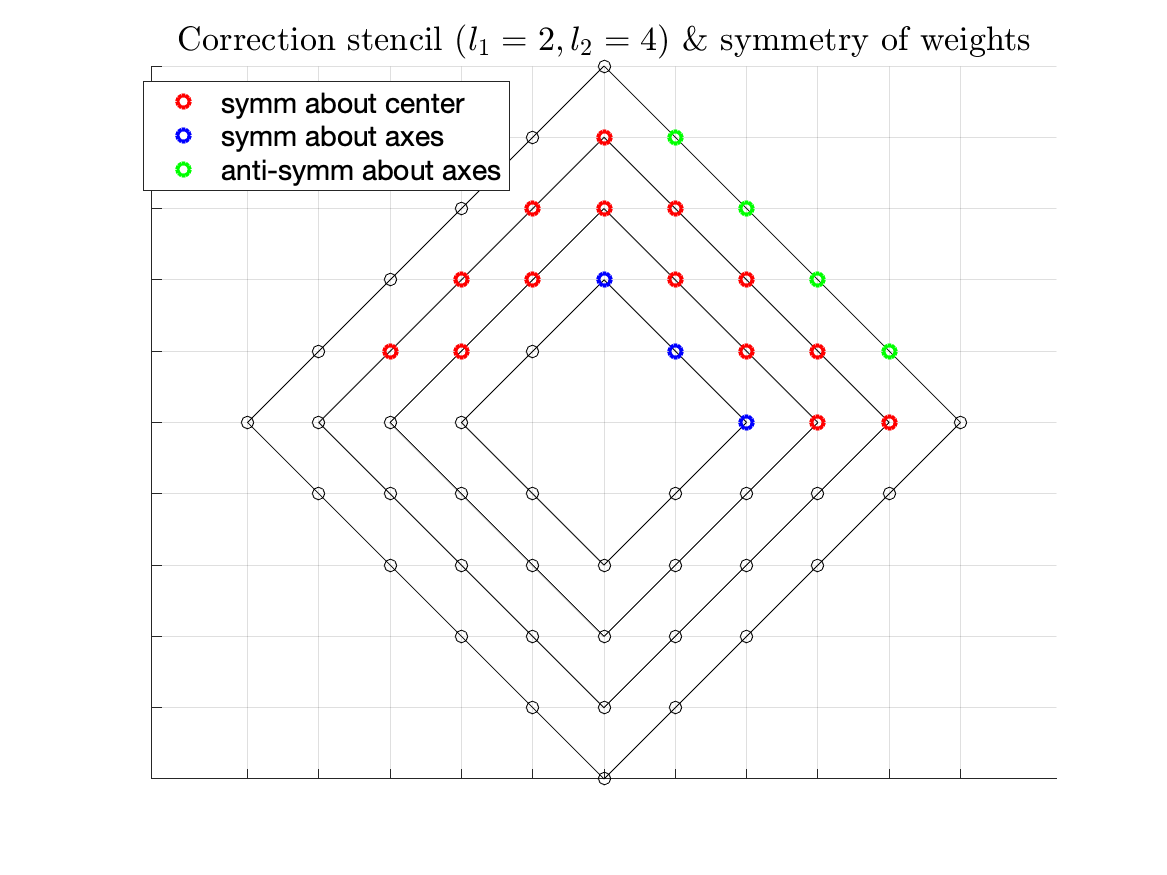
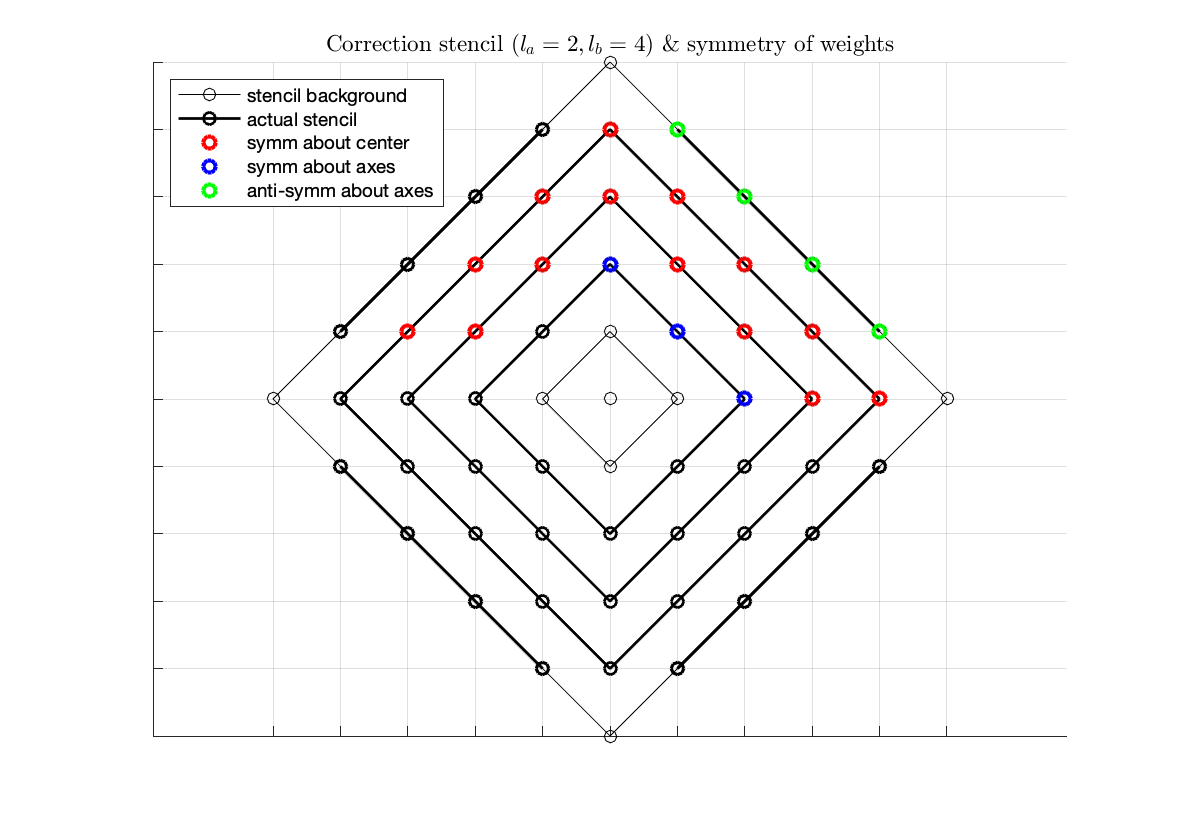
update README

diff --git a/test_helmholtz3d_on_quartic_patch_NEW.m b/test_helmholtz3d_on_quartic_patch_NEW.m
@@ -252,7 +252,7 @@ if l1>1, u=[u,-l1+1:-1]; v=[v,1:l1-1]; taus=[taus,tau(2:l1)]; end % off-axis cop
 if l1>0, u=[u,-u]; v=[v,-v]; taus = kron([1,1],taus); end % central symmetry copies
 inds = sub2ind(siz,sub1+u,sub2+v);      % kernel indices
 ker(inds) = ker(inds)+taus.*fac(inds); 
-% 2. intermediate layers (symmetric aboutt center)
+% 2. intermediate layers (symmetric about center)
 if l2 > l1
     u=[]; v=[]; % assemble stencil layers l, l1<l<=l2
     for l=l1+1:l2, u=[u,(l:-1:-l+1)]; v=[v,0:l-1,l:-1:1]; end
@@ -283,7 +283,7 @@ u=l1:-1:0; v=0:l1;
 A(:,1:l1+1)=u.^a.*v.^b;
 if l1>0, A(:,1:l1+1)=2*A(:,1:l1+1); end % on-axis pts
 if l1>1, A(:,2:l1)=A(:,2:l1)+2*(-u(2:l1)).^a.*v(2:l1).^b; end % off-axis pts
-% 2. intermediate layers (symmetric aboutt center)
+% 2. intermediate layers (symmetric about center)
 if l2 > l1
     u=[]; v=[]; % assemble stencil layers l, l1<l<=l2
     for l=l1+1:l2, u=[u,l:-1:-l+1]; v=[v,0:l-1,l:-1:1]; end 

diff --git a/test_laplace3d_on_quartic_patch_NEW.m b/test_laplace3d_on_quartic_patch_NEW.m
@@ -164,7 +164,7 @@ if l1>1, u=[u,-l1+1:-1]; v=[v,1:l1-1]; taus=[taus,tau(2:l1)]; end % off-axis cop
 if l1>0, u=[u,-u]; v=[v,-v]; taus = kron([1,1],taus); end % central symmetry copies
 inds = sub2ind(siz,sub1+u,sub2+v);      % kernel indices
 ker(inds) = ker(inds)+taus.*fac(inds); 
-% 2. intermediate layers (symmetric aboutt center)
+% 2. intermediate layers (symmetric about center)
 if l2 > l1
     u=[]; v=[]; % assemble stencil layers l, l1<l<=l2
     for l=l1+1:l2, u=[u,(l:-1:-l+1)]; v=[v,0:l-1,l:-1:1]; end
@@ -195,7 +195,7 @@ u=l1:-1:0; v=0:l1;
 A(:,1:l1+1)=u.^a.*v.^b;
 if l1>0, A(:,1:l1+1)=2*A(:,1:l1+1); end % on-axis pts
 if l1>1, A(:,2:l1)=A(:,2:l1)+2*(-u(2:l1)).^a.*v(2:l1).^b; end % off-axis pts
-% 2. intermediate layers (symmetric aboutt center)
+% 2. intermediate layers (symmetric about center)
 if l2 > l1
     u=[]; v=[]; % assemble stencil layers l, l1<l<=l2
     for l=l1+1:l2, u=[u,l:-1:-l+1]; v=[v,0:l-1,l:-1:1]; end 

diff --git a/README.md b/README.md
@@ -40,7 +40,7 @@ Supporting functions:
 
 ### Experimental code
 
-The routine `test_laplace3d_on_quartic_patch_NEW.m`  demonstrates a new (unpublished) ZetaTrap3D quadrature that *only requires the first fundamental form of the geometry* (unlike the original version above that needs higher geometric derivatives.)
+The routines `test_laplace3d_on_quartic_patch_NEW.m`  and `test_helmholtz3d_on_quartic_patch_NEW.m` demonstrate a new (unpublished) ZetaTrap3D quadrature that *only requires the first fundamental form of the geometry* (unlike the original version above that needs higher geometric derivatives.)
 
-This new code performs quadrature correction on a series of diamond stencils $|i|+|j|=l$ where the correction weights have  symmetries shown in the following picture; such a stencil can correct a class of singular integrands of the form "(singular) * (monomial)" for monomials of even power $p$, $2l_1\leq p\leq 2l_2$.
+This new code performs quadrature correction on a series of diamond stencils $|i|+|j|=l$ where the correction weights have  symmetries shown in the following picture; such a stencil can correct a class of singular integrands of the form "(singular) * (monomial)" for monomials of even power $p$, $2l_a\leq p\leq 2l_b$.
 ![](stencil_NEW.png)
